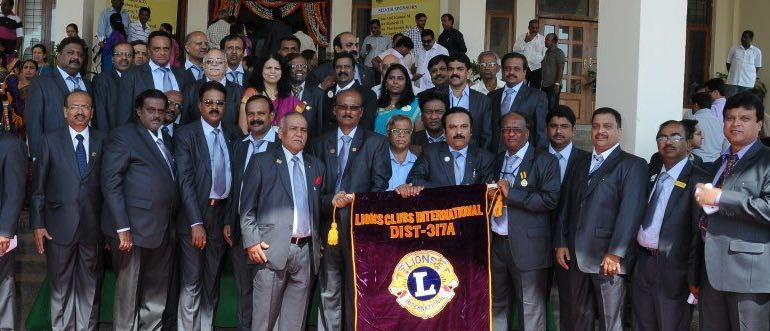
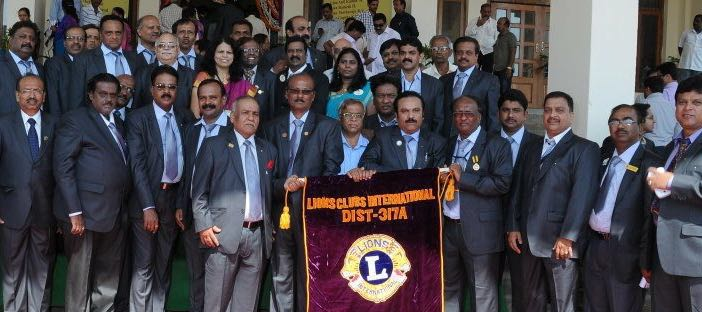
use cropped jpeg; use lqip as image background

diff --git a/src/pages/Index.js b/src/pages/Index.js
@@ -18,8 +18,14 @@ const Index = props => {
         </header>
         <section className="section">
           <div className="box px-0 pt-0">
-            <figure className="image">
-              <img className="round-top" src={clubImg.preSrc} alt="Club Photo" />
+            <figure
+              className="image is-9by4"
+              style={{
+                backgroundImage: `url(${clubImg.preSrc})`,
+                backgroundSize: 'cover',
+              }}
+            >
+              <img className="round-top" src={clubImg.src} alt="Club Photo" />
             </figure>
             <p className="p-4">
               Lions Club of Bangalore Jayanagar (LCBJ) District 317A was

diff --git a/src/styles/_bulma.scss b/src/styles/_bulma.scss
@@ -39,3 +39,15 @@ $footer-padding: 3rem 1.5rem 1.5rem;
 $quickview-shadow: none;
 @import 'bulma-quickview/dist/css/bulma-quickview.sass';
 @import 'bulma-carousel/src/sass/index.sass';
+
+.image {
+  &.is-9by4 img,
+  .has-ratio {
+    @extend %overlay;
+    height: 100%;
+    width: 100%;
+  }
+  &.is-9by4 {
+    padding-top: 44.44%;
+  }
+}

diff --git a/TODO.md b/TODO.md
@@ -3,13 +3,17 @@
 - Donors list
 
 # Features
--[x] Static site generation
+-[ ] Optimize JPEG; Lossless crop to aspect ratio
+-[ ] Pure CSS hamburger menu
+-[ ] SVGO
+-[ ] lqip-loader
+-[ ] Carousel alternative
+-[ ] responsive-loader
 -[ ] Netlify CMS
 -[ ] Meta tags
+-[ ] SEO
+-[ ] Web Payments API
+  -[ ] UPI payments
+-[x] Static site generation
 -[x] Manifest
 -[x] Service Worker
--[ ] SEO
--[ ] responsive-loader
--[ ] Pure CSS hamburger menu
--[ ] Web Payments API
--[ ] UPI payments
